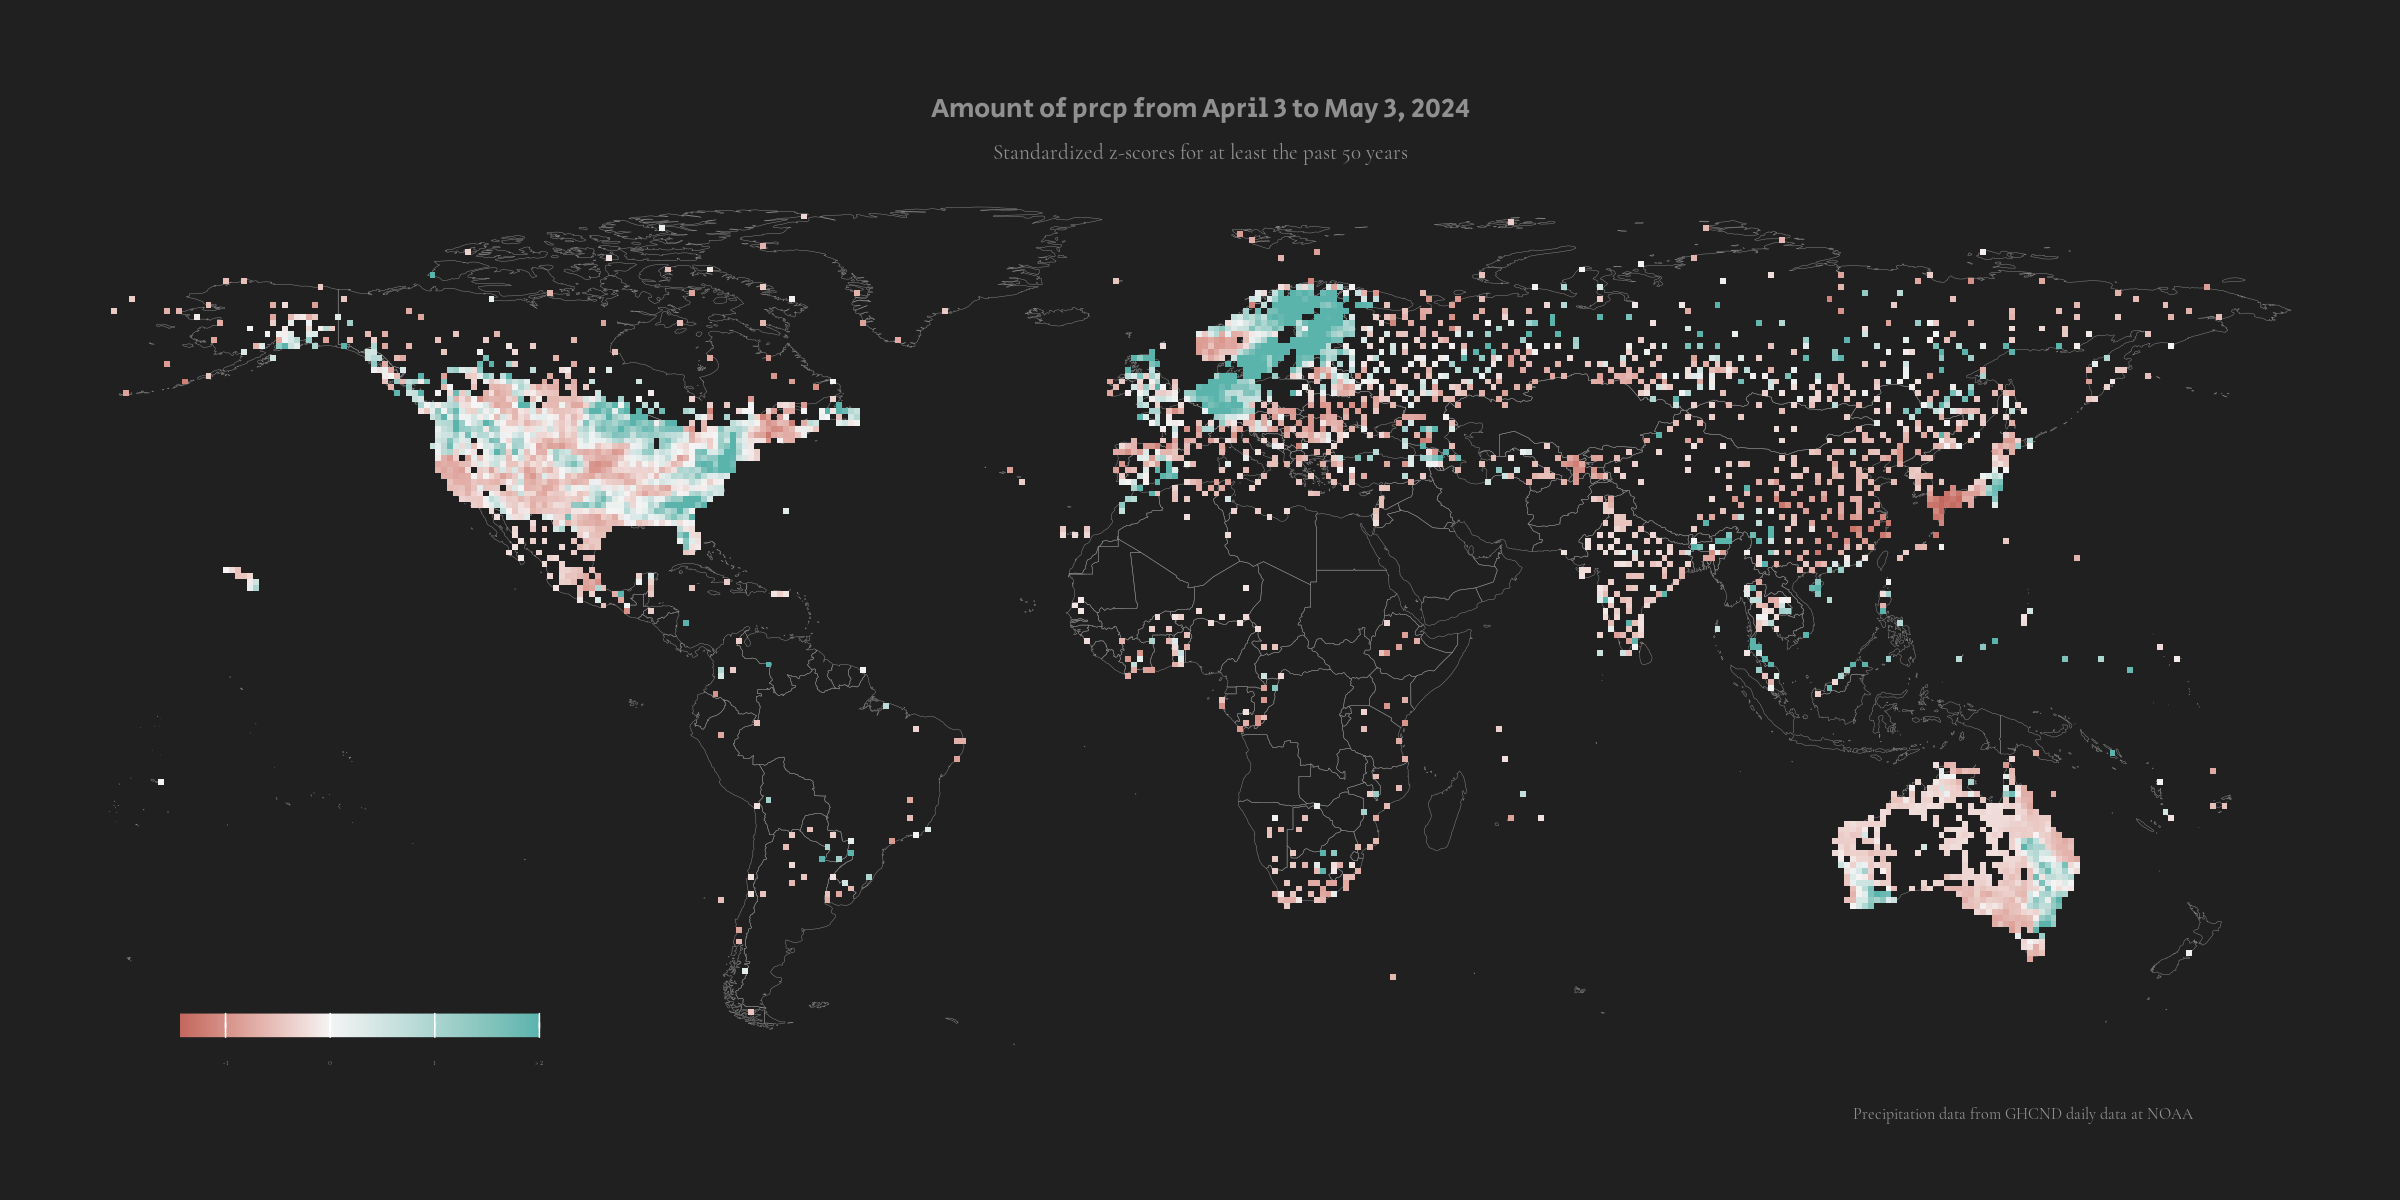
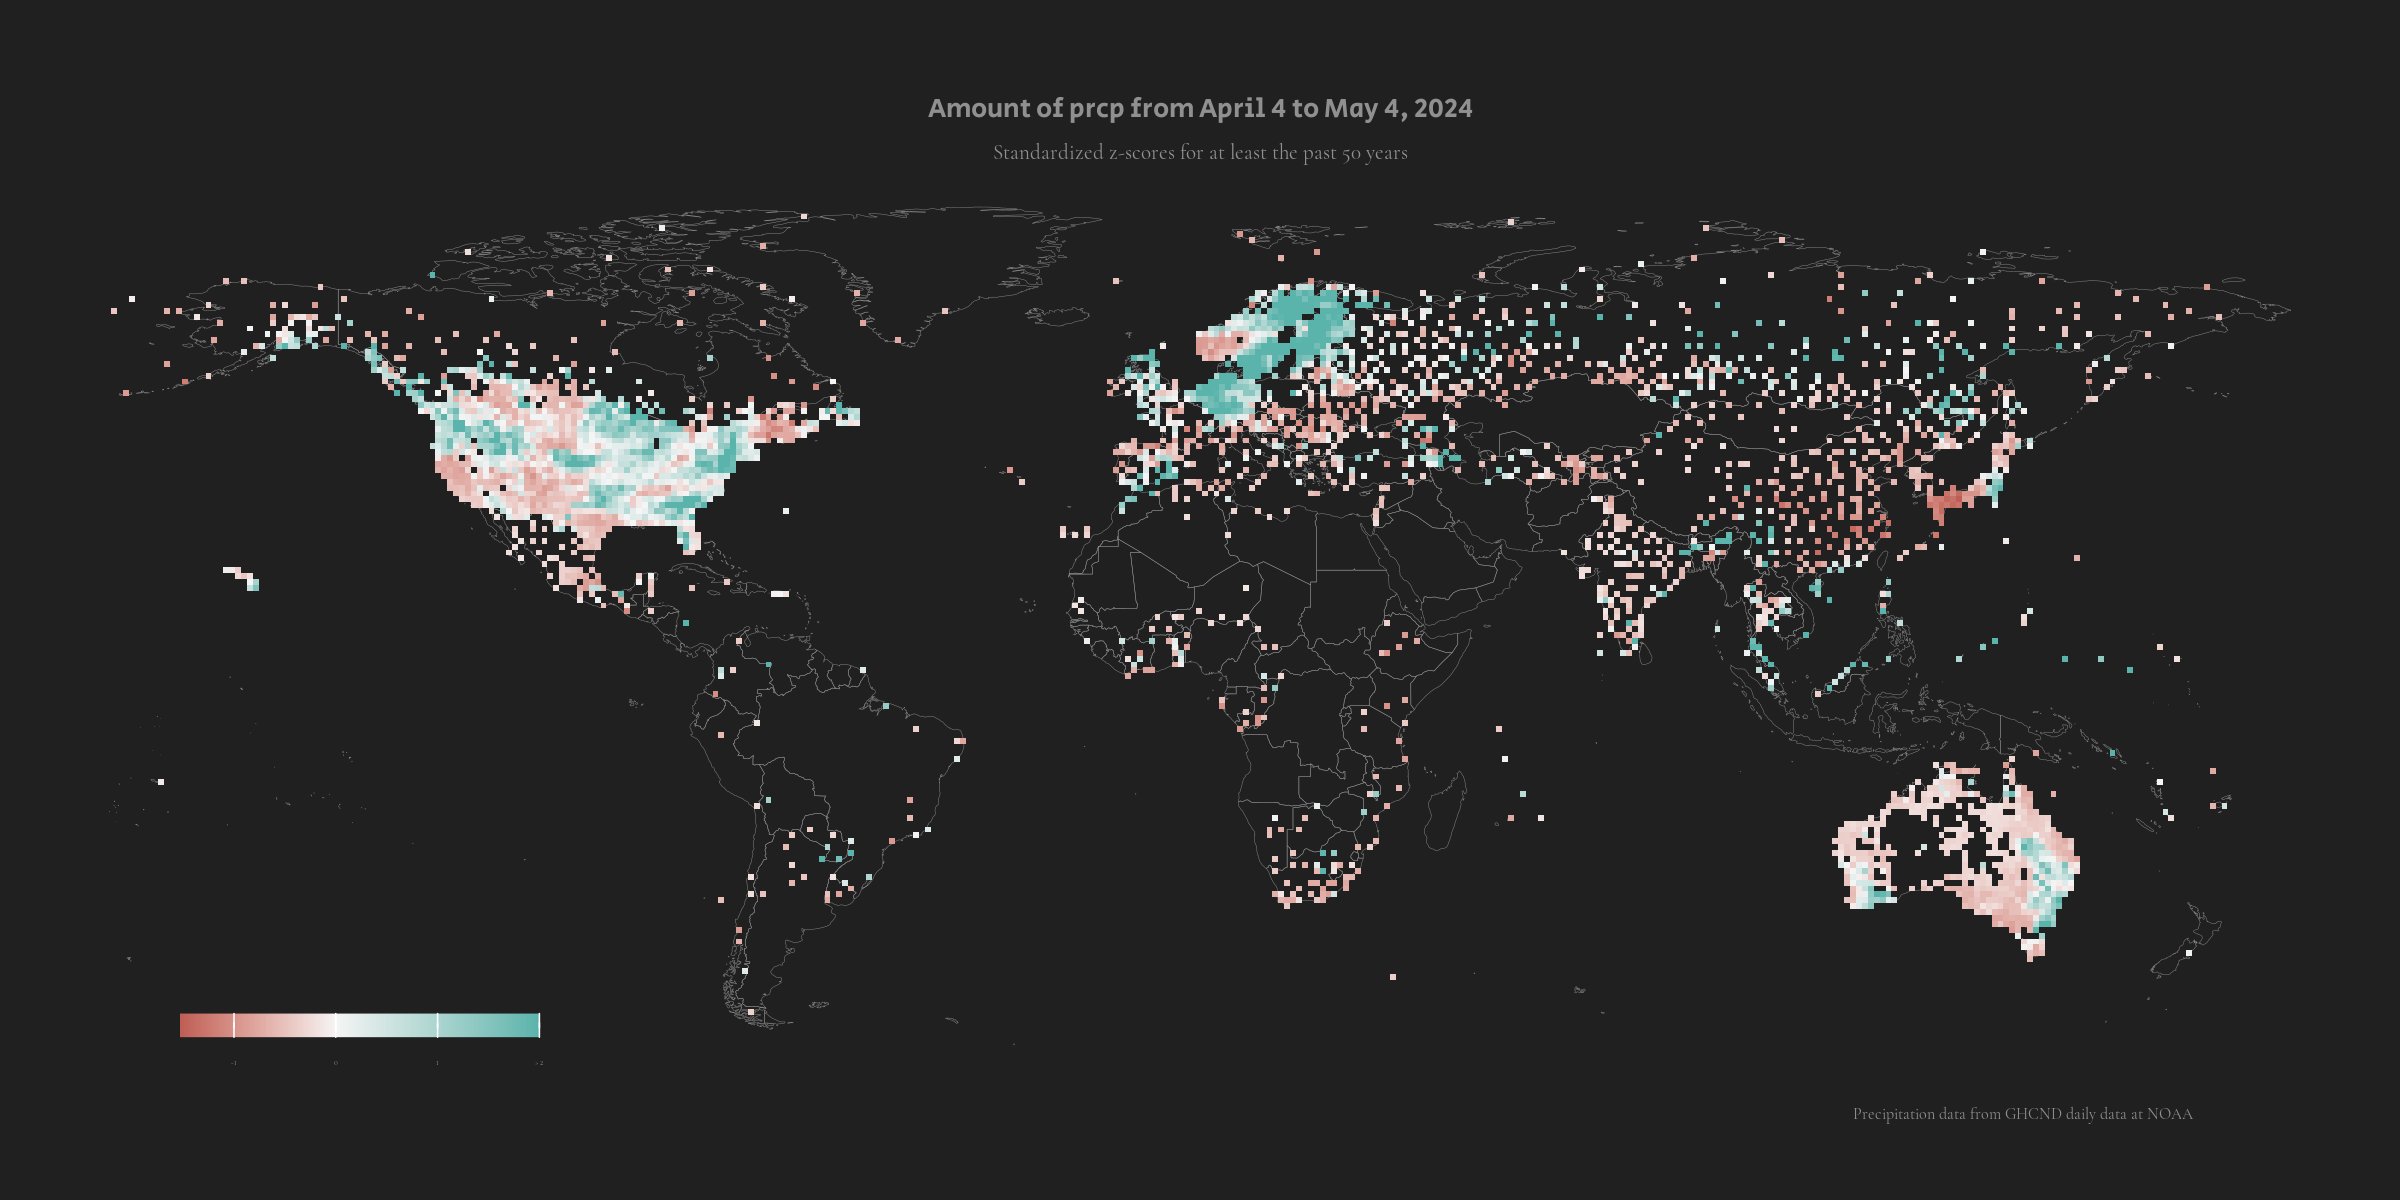
new day's rendering

diff --git a/index.html b/index.html
@@ -51,7 +51,7 @@ ul.task-list li input[type="checkbox"] {
 <div class="column-screen">
 <p><img src="visuals/heatmap_world_drought.png" class="img-fluid"></p>
 </div>
-<p>Last updated May 8, 2024.</p>
+<p>Last updated May 9, 2024.</p>
 <p>This <a href="https://esbenlykke.github.io/drought_index/">site</a> is part of a project to pratice reproducible research developed by <a href="mailto:%20eskovgaard@health.sdu.dk">Esben Lykke</a>.</p>
 
 </main>
